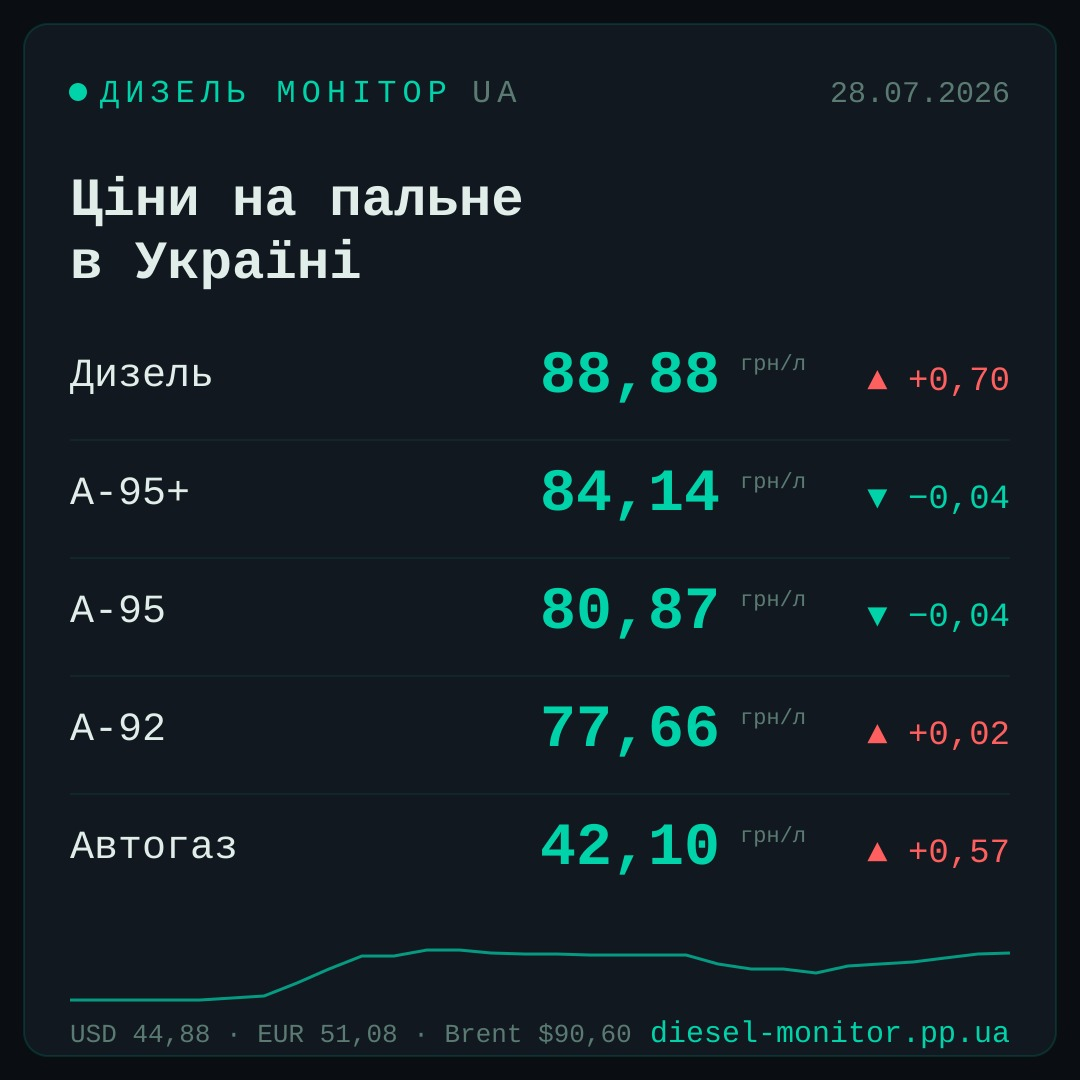
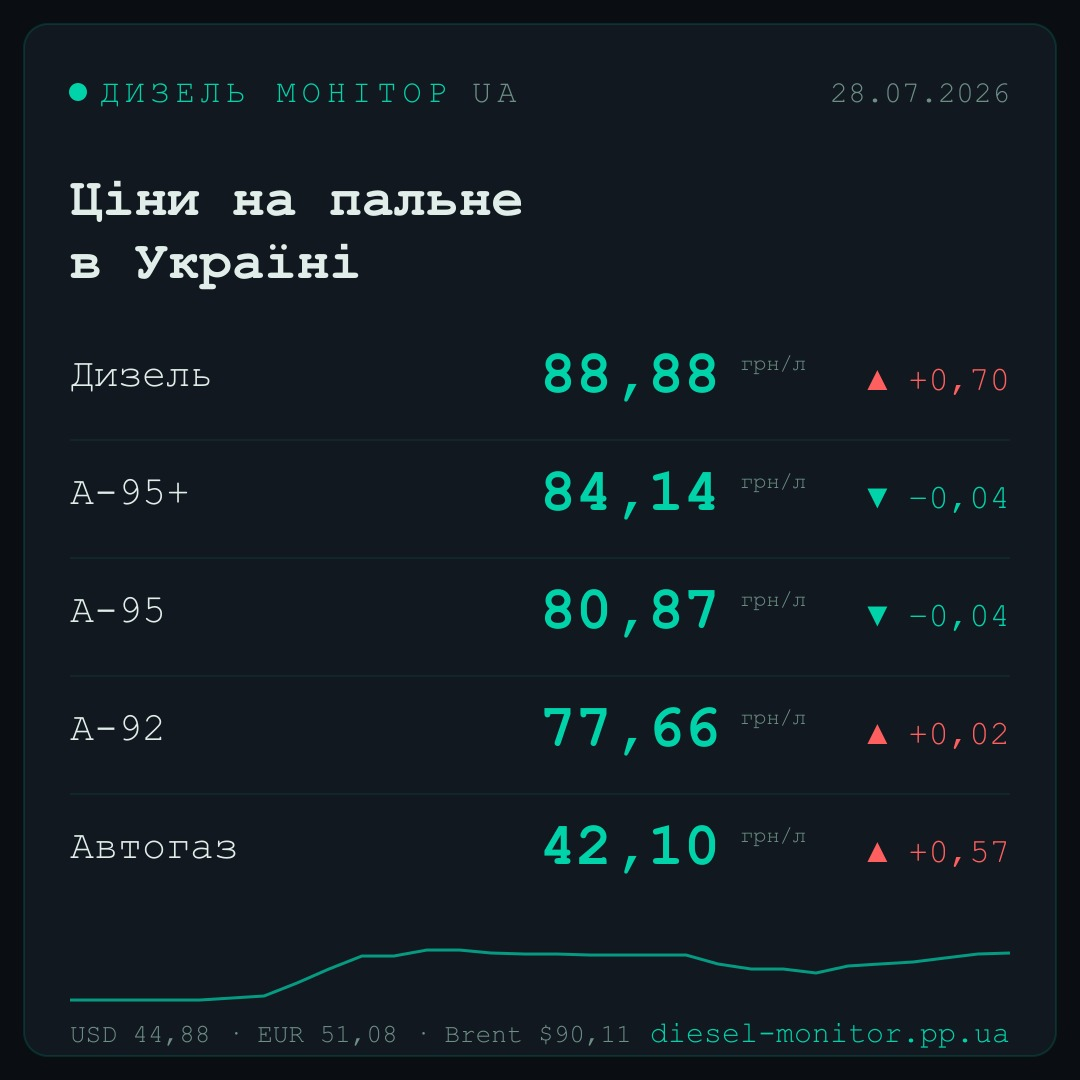
доступність: контрастний сірий і мінімум 9px замість 8px
Перевірив верстку вимірюваннями, а не на око:
- сірий #5a7a72 давав контраст 3.8 при нормі WCAG AA 4.5, а ним набрані
  дрібні підписи — на сонці читалось погано. Замінено на #6d8f86 (5.0)
- прозорість text-muted/60 і /70 опускала контраст до 2.6-3.1 — прибрано
  з текстових елементів (декоративні кружечки лишились)
- найдрібніший текст піднято з 8px до 9px, підписи з 9px до 10px
- ті самі кольори оновлено в картках Instagram, сторіс, Reels і OG

Горизонтального переповнення на мобільному немає (перевірено), графік
ECharts коректно стискається під 375px і розтягується при повороті.

diff --git a/src/components/DriversPanel.tsx b/src/components/DriversPanel.tsx
@@ -10,7 +10,7 @@ function StrengthDots({ strength, dir }: { strength: Driver['strength']; dir: Dr
   const color = dir === 'up' ? 'text-danger' : 'text-accent';
   return (
     <span
-      className="text-[9px] tracking-[0.2em] whitespace-nowrap shrink-0"
+      className="text-[10px] tracking-[0.2em] whitespace-nowrap shrink-0"
       aria-label={`сила ${strength} з 3`}
       title={`сила чинника: ${strength} з 3`}
     >
@@ -41,7 +41,7 @@ function DriverRow({ driver, index }: { driver: Driver; index: number }) {
         <span className="text-xs text-[#e0ede9] flex-1 min-w-0 leading-tight">{driver.label}</span>
         <StrengthDots strength={driver.strength} dir={driver.dir} />
         <span
-          className={`text-[9px] shrink-0 transition-transform duration-200 ${open ? 'rotate-180 text-accent' : 'text-muted/60'}`}
+          className={`text-[10px] shrink-0 transition-transform duration-200 ${open ? 'rotate-180 text-accent' : 'text-muted'}`}
           aria-hidden="true"
         >
           ▾
@@ -92,7 +92,7 @@ export default function DriversPanel() {
         )}
       </div>
 
-      <div className="text-[9px] text-muted/60 mt-2 pt-2">
+      <div className="text-[10px] text-muted mt-2 pt-2">
         Автоматичний аналіз чинників · Brent, курс НБУ, динаміка цін, новини · клік по чиннику —
         пояснення
       </div>

diff --git a/src/components/NewsWidget.tsx b/src/components/NewsWidget.tsx
@@ -24,10 +24,10 @@ export default function NewsWidget() {
         <div className="lbl">
           НОВИНИ РИНКУ
           {news && news.items.length > 0 && (
-            <span className="text-muted/70 ml-1.5">({news.items.length})</span>
+            <span className="text-muted ml-1.5">({news.items.length})</span>
           )}
         </div>
-        <div className="text-[8px] text-muted whitespace-nowrap">
+        <div className="text-[9px] text-muted whitespace-nowrap">
           🔴 тисне вгору · 🟢 вниз · 🟡 нейтрально
         </div>
       </div>
@@ -62,7 +62,7 @@ export default function NewsWidget() {
                 <div className="text-[10px] text-muted line-clamp-2 mt-0.5">
                   {item.summary}
                 </div>
-                <div className="text-[9px] text-muted/70 mt-0.5">
+                <div className="text-[10px] text-muted mt-0.5">
                   {item.source}
                   {ago ? ` · ${ago}` : ''}
                 </div>
@@ -72,7 +72,7 @@ export default function NewsWidget() {
         </div>
       )}
 
-      <div className="text-[9px] text-muted/60 mt-2">
+      <div className="text-[10px] text-muted mt-2">
         Автодобірка за ключовими словами · ЕП, УНІАН, Укрінформ, РБК-Україна · архів накопичується
       </div>
     </motion.div>

diff --git a/src/components/NetworksTable.tsx b/src/components/NetworksTable.tsx
@@ -250,15 +250,15 @@ export default function NetworksTable() {
                       {row.name}
                     </Link>
                     {row.regionCount !== undefined && (
-                      <span className="text-muted text-[9px] ml-1">({row.regionCount} обл.)</span>
+                      <span className="text-muted text-[10px] ml-1">({row.regionCount} обл.)</span>
                     )}
                     {row.name === cheapest && (
-                      <span className="text-[8px] border border-accent text-accent rounded px-1 ml-1.5 align-middle">
+                      <span className="text-[9px] border border-accent text-accent rounded px-1 ml-1.5 align-middle">
                         НАЙДЕШЕВША
                       </span>
                     )}
                     {row.name === dearest && (
-                      <span className="text-[8px] border border-danger text-danger rounded px-1 ml-1.5 align-middle">
+                      <span className="text-[9px] border border-danger text-danger rounded px-1 ml-1.5 align-middle">
                         НАЙДОРОЖЧА
                       </span>
                     )}

diff --git a/src/components/AnalyticsPanel.tsx b/src/components/AnalyticsPanel.tsx
@@ -24,7 +24,7 @@ function Stat({ label, value, color, unit, sub, subColor = 'text-muted', title }
       <div className={`text-[15px] font-bold leading-tight tabular-nums ${color}`}>
         {value}
         {unit && value !== '—' && (
-          <span className="text-[9px] font-normal text-muted ml-1">{unit}</span>
+          <span className="text-[10px] font-normal text-muted ml-1">{unit}</span>
         )}
       </div>
       {sub && <div className={`text-[10px] leading-tight truncate ${subColor}`}>{sub}</div>}
@@ -47,7 +47,7 @@ export default function AnalyticsPanel() {
     >
       <div className="flex items-baseline justify-between gap-2 mb-2">
         <div className="lbl">Аналітика</div>
-        <div className="text-[8px] text-muted whitespace-nowrap">{FUEL_SHORT[fuel]}</div>
+        <div className="text-[9px] text-muted whitespace-nowrap">{FUEL_SHORT[fuel]}</div>
       </div>
 
       <div className="grid grid-cols-2 gap-x-3 gap-y-2.5">

diff --git a/src/components/ForecastPanel.tsx b/src/components/ForecastPanel.tsx
@@ -60,7 +60,7 @@ export default function ForecastPanel() {
               {DIRECTION_VIEW[fc.direction].text}
             </span>
             <span
-              className={`border rounded px-1.5 py-0.5 text-[9px] tracking-[0.1em] ${CONFIDENCE_CLS[fc.confidence]}`}
+              className={`border rounded px-1.5 py-0.5 text-[10px] tracking-[0.1em] ${CONFIDENCE_CLS[fc.confidence]}`}
             >
               довіра: {fc.confidence}
             </span>
@@ -74,7 +74,7 @@ export default function ForecastPanel() {
         </>
       )}
 
-      <div className="text-[9px] text-muted/70 border-t border-line/50 pt-1.5 mt-2 leading-relaxed">
+      <div className="text-[10px] text-muted border-t border-line/50 pt-1.5 mt-2 leading-relaxed">
         Оцінка тренду за історичними даними. Не є гарантією майбутніх цін і не є фінансовою
         порадою.
       </div>

diff --git a/src/components/RegionsPanel.tsx b/src/components/RegionsPanel.tsx
@@ -104,7 +104,7 @@ export default function RegionsPanel() {
               <div className={`text-[15px] font-bold leading-tight ${colorFor(i)}`}>
                 {fmtPrice(r.med)}
               </div>
-              <div className="text-[8px] text-muted/60">
+              <div className="text-[9px] text-muted">
                 {r.count} {networksWord(r.count)}
               </div>
             </Link>
@@ -116,7 +116,7 @@ export default function RegionsPanel() {
             <div className="border border-transparent rounded px-2 py-1.5 opacity-60">
               <div className="text-[10px] text-muted truncate">{name}</div>
               <div className="text-[15px] font-bold leading-tight text-muted">—</div>
-              <div className="text-[8px] text-muted/60">немає даних</div>
+              <div className="text-[9px] text-muted">немає даних</div>
             </div>
           </motion.div>
         ))}

diff --git a/src/pages/EvPage.tsx b/src/pages/EvPage.tsx
@@ -210,7 +210,7 @@ export default function EvPage() {
               </div>
             ))}
         </div>
-        <div className="text-[9px] text-muted/70 mt-2">
+        <div className="text-[10px] text-muted mt-2">
           Ціни на зарядку динамічні й залежать від станції та часу — точний тариф дивіться у застосунку мережі.
           Кольори точок відповідають мережі; сірі — оператора не вказано в OSM. Дані краудсорсингові (OpenStreetMap),
           можливі неточності — кнопка «на карті» у picker відкриває місце в Google Maps (назва, фото, чи працює).

diff --git a/src/index.css b/src/index.css
@@ -9,7 +9,10 @@
   --color-warn: #ffb347;
   --color-danger: #ff5f5f;
   --color-purple: #aa88ff;
-  --color-muted: #5a7a72;
+  /* Був #5a7a72 — контраст 3.8 на картці, нижче норми WCAG AA (4.5).
+     Ним набрані дрібні підписи 9–10px, тож на сонці читалось погано.
+     #6d8f86 дає 5.0 і виглядає так само приглушено. */
+  --color-muted: #6d8f86;
   --color-line: rgba(0, 210, 170, 0.15);
   --color-grid: rgba(0, 210, 170, 0.05);
   --font-mono: 'Courier New', Courier, monospace;

diff --git a/src/App.tsx b/src/App.tsx
@@ -29,7 +29,7 @@ function Header({ updatedAt }: { updatedAt: string | null }) {
         <span className="hidden md:inline">⚡ У вас електрокар? Де зарядка поряд</span>
         <span className="md:hidden">⚡ Зарядки EV</span>
       </Link>
-      <span className="text-[10px] text-muted/70 hidden sm:block flex-1 text-right">
+      <span className="text-[10px] text-muted hidden sm:block flex-1 text-right">
         {updatedAt ? `ціни: ${timeAgo(updatedAt)}` : 'завантаження…'}
       </span>
     </header>

diff --git a/src/components/FuelTickers.tsx b/src/components/FuelTickers.tsx
@@ -134,7 +134,7 @@ export default function FuelTickers() {
             </div>
 
             {/* Рядок 4: зміна за тиждень */}
-            <div className={`text-[9px] leading-tight opacity-85 ${changeColor(t.week?.abs)}`}>
+            <div className={`text-[10px] leading-tight opacity-85 ${changeColor(t.week?.abs)}`}>
               {t.week
                 ? `тижд ${arrow(t.week.abs)} ${fmtSigned(t.week.abs)} (${fmtPct(t.week.pct)})`
                 : 'тижд —'}

diff --git a/src/components/PriceChart.tsx b/src/components/PriceChart.tsx
@@ -168,7 +168,7 @@ export default function PriceChart() {
         <>
           <Chart option={option} className="h-72 md:h-80" notMerge />
           {hasSparse && (
-            <div className="text-[9px] text-muted mt-1.5">
+            <div className="text-[10px] text-muted mt-1.5">
               · розріджені історичні точки (архів) з&apos;єднано лінією
             </div>
           )}

diff --git a/src/pages/RegionPage.tsx b/src/pages/RegionPage.tsx
@@ -215,7 +215,7 @@ export default function RegionPage() {
             </tbody>
           </table>
         </div>
-        <div className="text-[9px] text-muted mt-2">
+        <div className="text-[10px] text-muted mt-2">
           Найдорожче: {dearest?.region} — {fmtPrice(dearest?.price)} грн/л.
           Ціни по мережах АЗС — на головній сторінці.
         </div>
